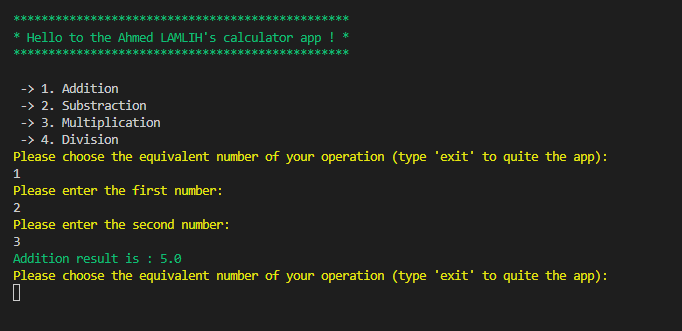
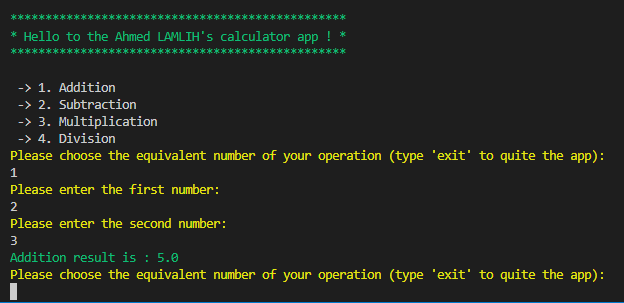
Commit Calculator App Files

Changed region(s): [[0.0, 0.2376, 1.0, 1.0], [0.0, 0.0297, 0.5785, 0.1782]]

diff --git a/Calculator App/calculator.dart b/Calculator App/calculator.dart
@@ -6,7 +6,7 @@ void main() {
   printSuccess(
       "\n************************************************\n* Hello to the Ahmed LAMLIH's calculator app ! *\n************************************************\n");
   print(
-      " -> 1. Addition\n -> 2. Substraction\n -> 3. Multiplication\n -> 4. Division");
+      " -> 1. Addition\n -> 2. Subtraction\n -> 3. Multiplication\n -> 4. Division");
   do {
     printWarning(
         "Please choose the equivalent number of your operation (type 'exit' to quite the app): ");
@@ -25,7 +25,7 @@ void main() {
         try {
           List numbers = getNumbers();
           outputResult = numbers[0] - numbers[1];
-          printSuccess("Substraction result is : $outputResult");
+          printSuccess("Subtraction result is : $outputResult");
         } catch (e) {
           printError("Invalid input ! Please try again with a number.");
         }
